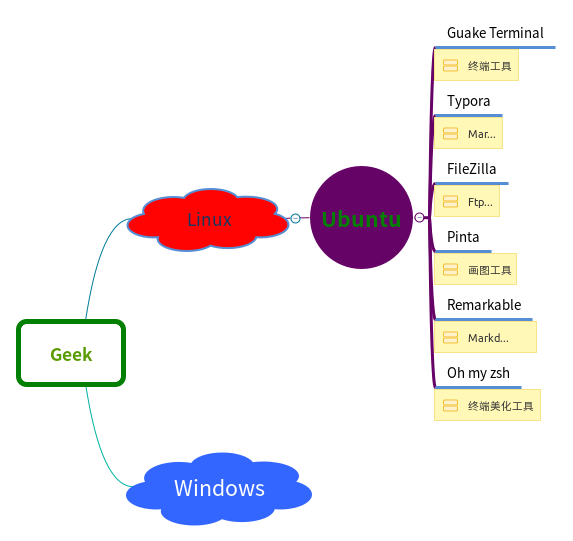
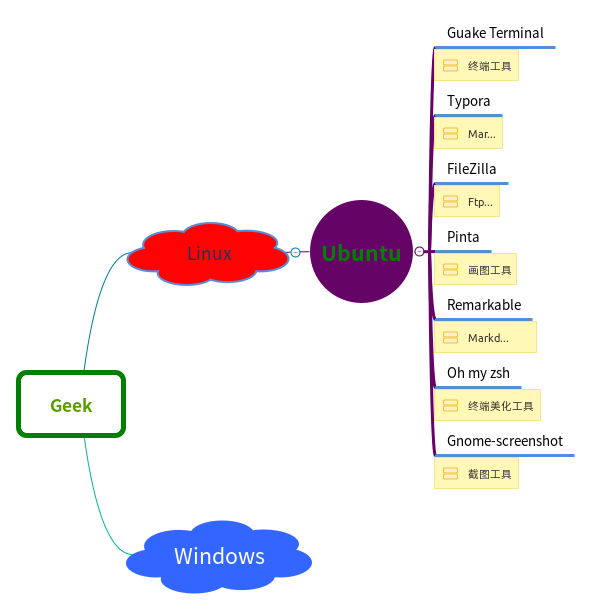
更新学习笔记

Changed region(s): [[0.178, 0.0296, 0.9791, 0.8281], [0.178, 0.8281, 0.5637, 0.976], [0.0297, 0.4732, 0.2373, 0.8577]]

diff --git a/Ubuntu/Terminal.md b/Ubuntu/Terminal.md
@@ -1,0 +1,18 @@
+# Terminal常用快捷键 #
+| 组合键 | 作用 |
+| --- | --- |
+| Alt+Ctrl+T | 打开终端 |
+| Shift+Ctrl+T | 以新标签页打开新终端 |
+| Shift+Ctrl+N | 以新窗口打开新终端 |
+| Shift+Ctrl+W | 关闭当前页终端 |
+| Shift+Ctrl+Q | 关闭当前窗口所有终端 |
+| Shift+Ctrl+C | 复制 |
+| Shift+Ctrl+V | 粘贴 |
+| Ctrl+__+__ | 放大终端字体 |
+| Ctrl+__-__ | 缩小终端字体 |
+| Ctrl+0 | 普通大小终端字体 |
+| F11 | 全屏 |
+| Ctrl+PgUp | 切换到上一个终端 |
+| Ctrl+PgDn | 切换到下一个终端 |
+| Shift+Ctrl+PgUp | 将终端向左移动 |
+| Shift+Ctrl+PgDn | 将终端向右移动 |

diff --git a/README.md b/README.md
@@ -34,15 +34,8 @@
 
 ## Ubuntu ##
 
-截屏工具
-gnome-screenshot  
 编辑器
 gnome-nano  
 解决Ubuntu不识别大Ｕ盘的问题  
 sudo apt-get install exfat-fuse exfat-utils  
 
-### Terminal常用快捷键 ###
-|组合键|作用|
-| --- | --- |
-|Alt+Ctrl+T|打开终端|
-|Shift+Ctrl+T|
